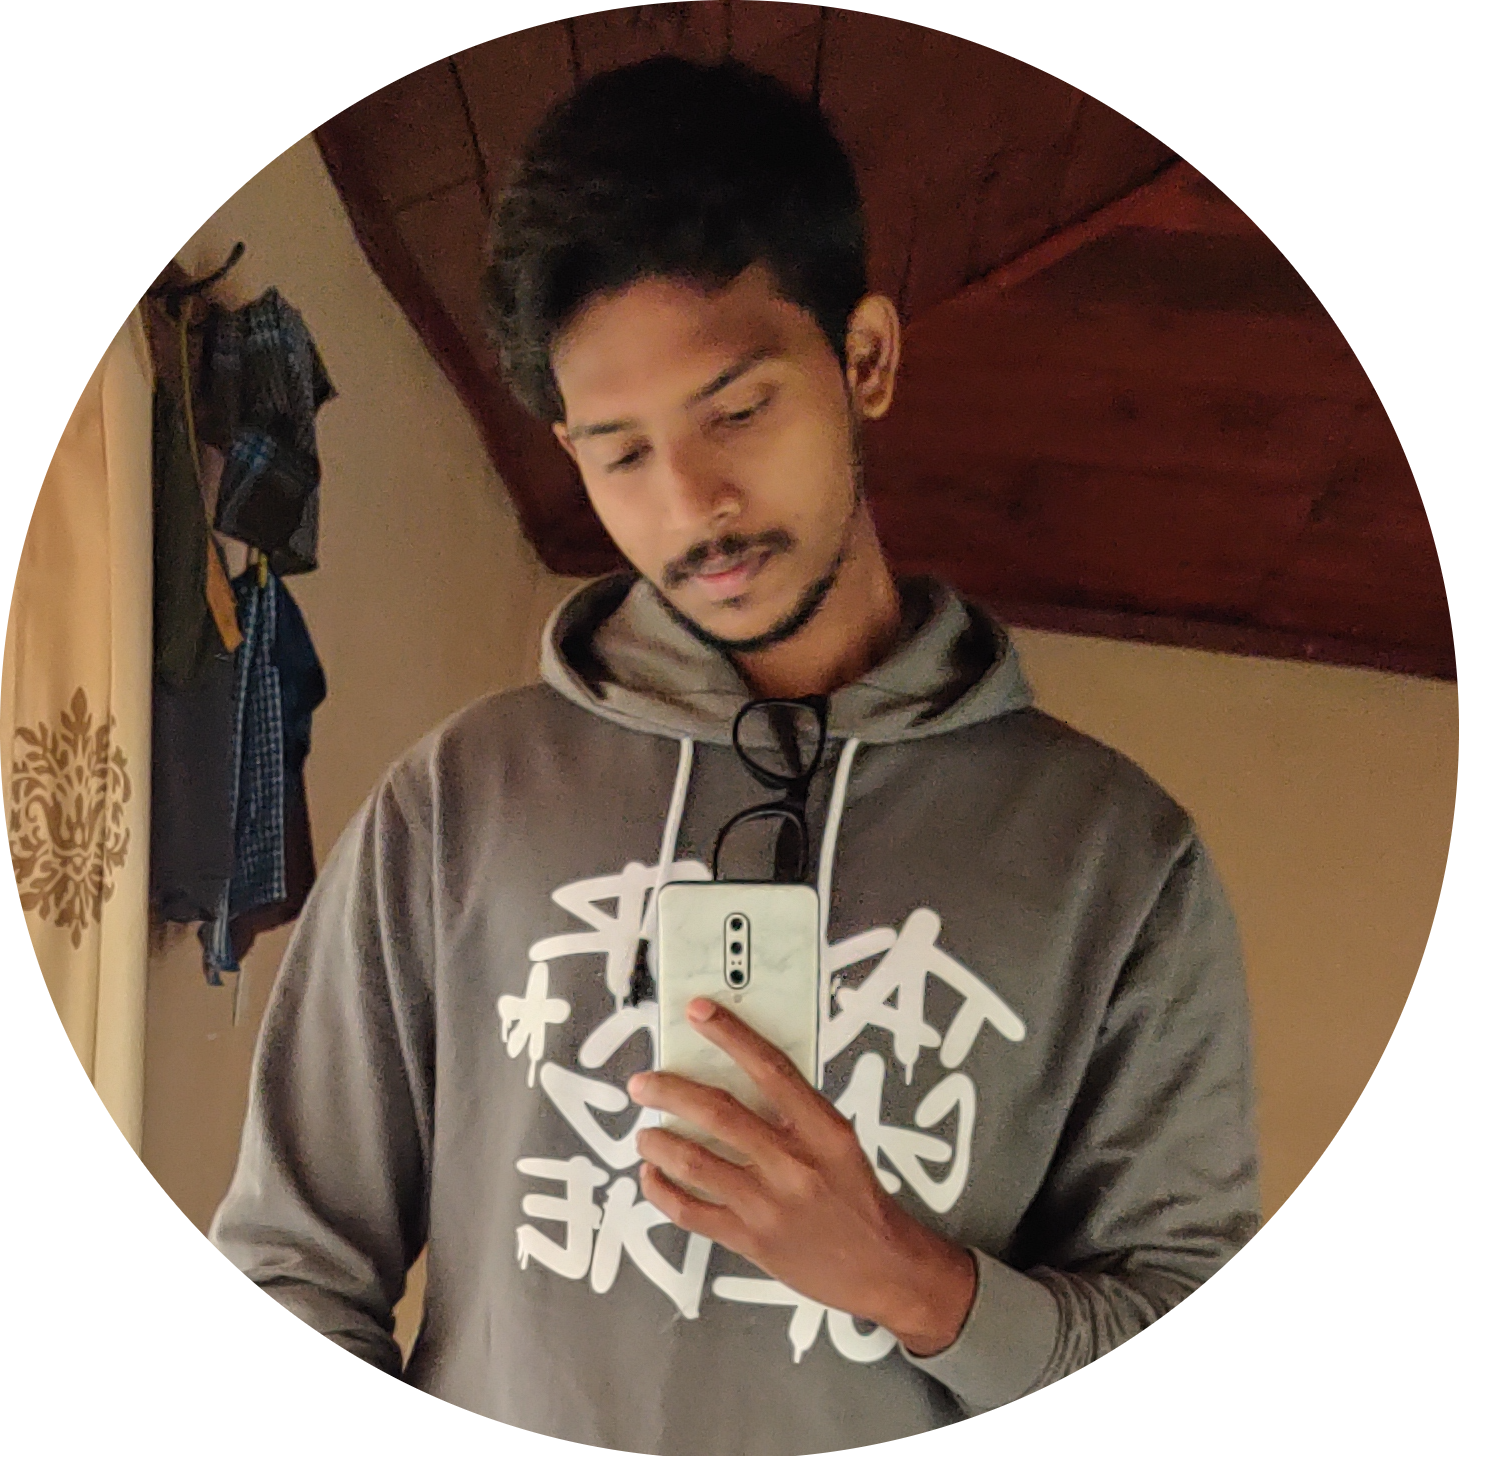
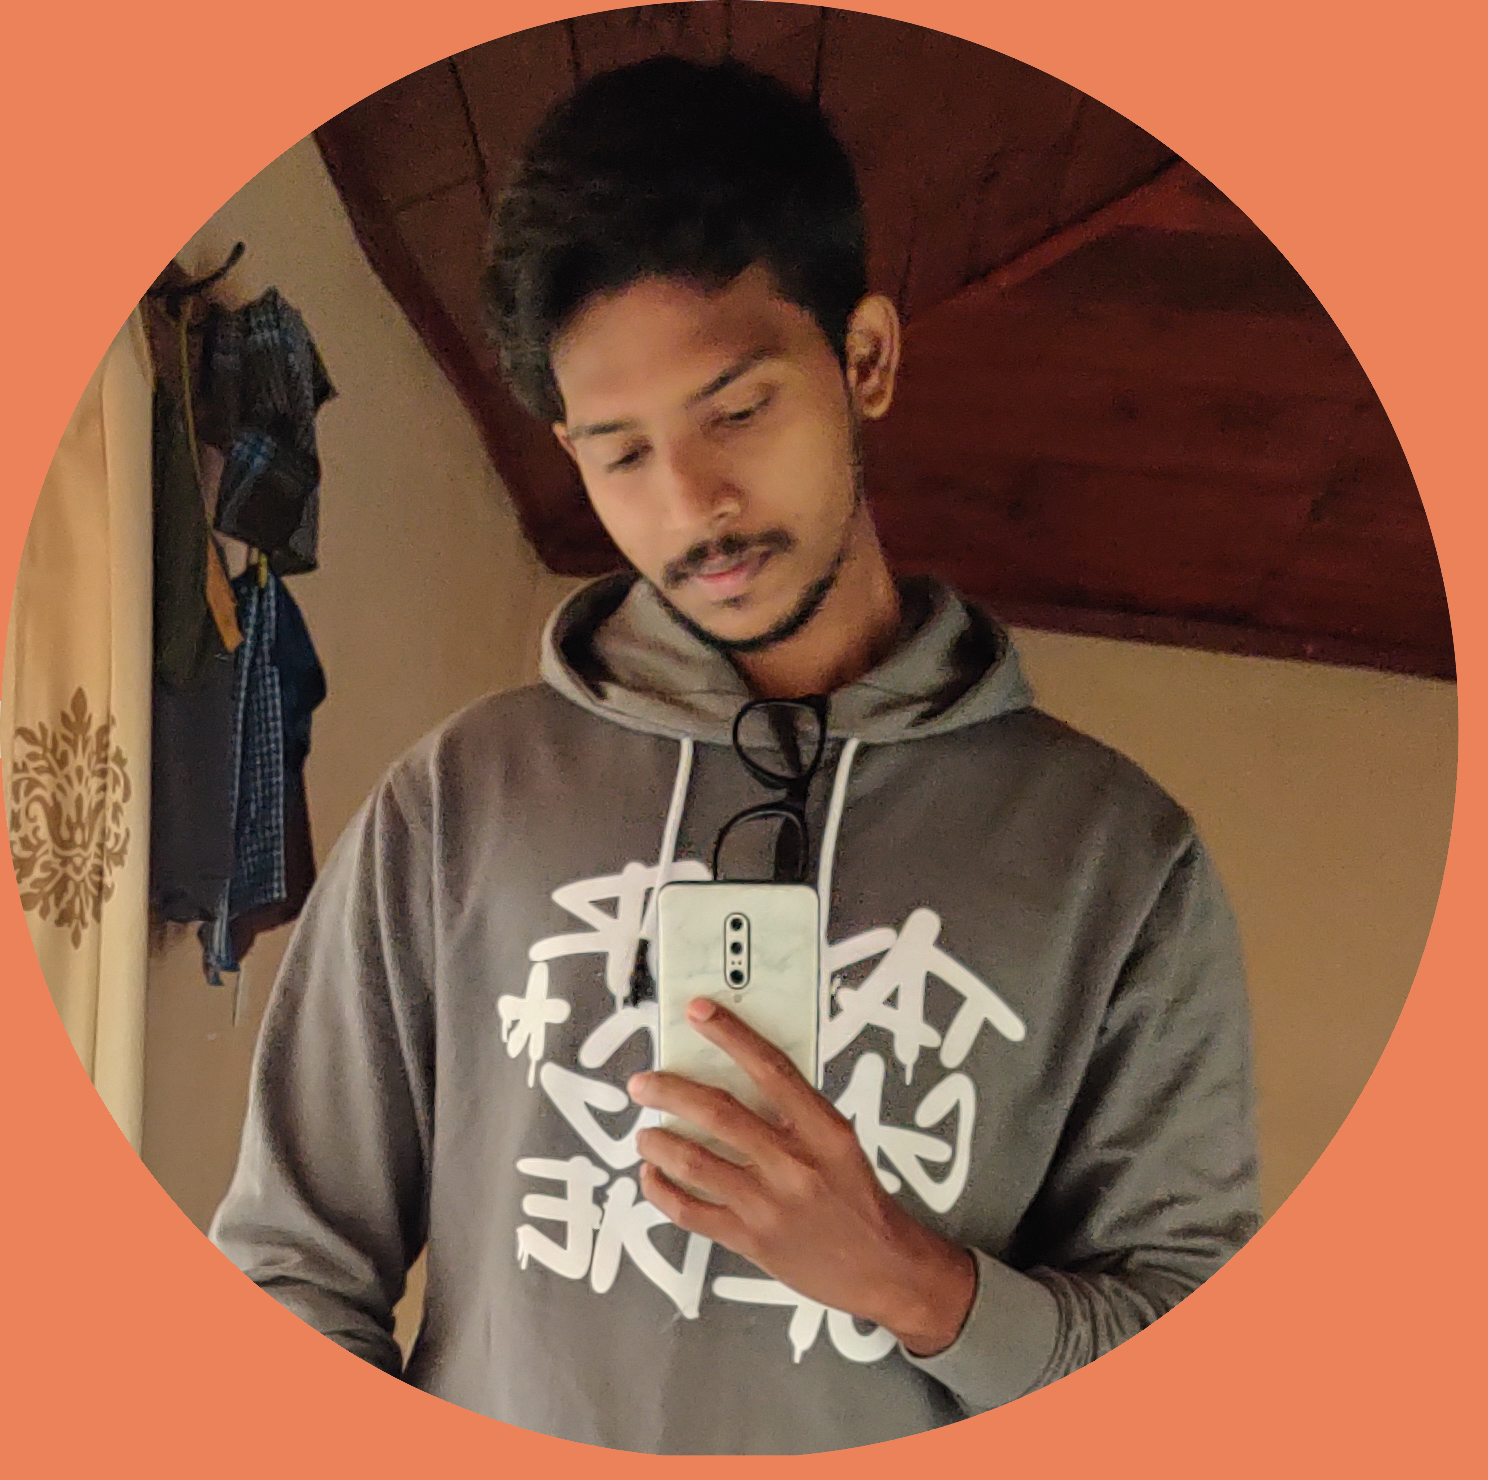
Updated the profile picture and modified the content

Changed region(s): [[0.0, 0.0, 1.0, 1.0], [0.0, 0.0, 0.4328, 0.4351]]

diff --git a/index.html b/index.html
@@ -15,7 +15,7 @@
         }
     </style>
   </head>
-  <body>
+  <body style="background-color: #EC825A">
     <table cellspacing = "20">
       <td><img src="Images/sudhan.png" alt="Sudhan's Profile Picture" width="150" height="150"></td>
       <td>
